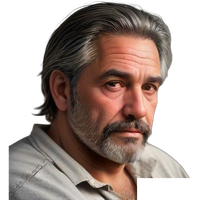
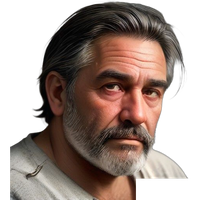
Add tolerance mechanic, shopkeeper dialogue, HUD polish, realistic portraits
- Tolerance builds day over day: the pusher's fix costs more and craving
  decays faster the longer a run goes, giving the day counter an actual
  gameplay effect instead of just being cosmetic.
- The shopkeeper is now a talkable character (name, portrait, flavor
  lines) instead of just a silent vision cone.
- Restyled the HUD with bordered panels, a framed craving meter, a
  "WANTED" badge, a framed dialogue portrait, and real item icons in
  place of the flat colored rectangles and plain text list.
- Regenerated all character portraits with descriptions grounded in
  real clinical signs of opioid, benzodiazepine, and long-term alcohol
  use, plus a new eighth portrait for the shopkeeper.
- Added a structural validator for scene files (dangling resource refs,
  missing assets, load_steps mismatches); no existing bugs found.

diff --git a/dev-tools/gen_portraits.py b/dev-tools/gen_portraits.py
@@ -26,14 +26,24 @@ from PIL import Image
 OUT = "/home/anders/dopesick-game/assets/portraits"
 os.makedirs(OUT, exist_ok=True)
 
+# Descriptions are grounded in real clinical/visible signs of long-term
+# substance use (researched via addiction-medicine sources, not guessed):
+# heroin/opioid use shows as gauntness, hollow cheeks, sunken dark-circled
+# eyes, and a sallow/grayish skin tone; benzodiazepine use shows as
+# droopy, "glazed" or unfocused eyes and a dull complexion rather than
+# gauntness; long-term heavy drinking (the dive bar's barflies) shows as
+# facial flushing and broken capillaries across the nose and cheeks.
+# Kept humanizing, not a caricature -- these are headshots of tired
+# people, not gore.
 CHARACTERS = {
-    "bartender": "a weathered middle-aged bartender with a short greying beard, rolled-up sleeves, tired but kind eyes",
-    "wiry_guy": "a thin wiry young man with a gaunt face, sunken cheeks, stubble, nervous eyes",
-    "tired_woman": "an exhausted middle-aged woman with dark circles under her eyes, messy hair, tired expression",
-    "big_eddie": "a big heavyset man with a broad face, short cropped hair, tired heavy-lidded eyes",
-    "quiet_kid": "a young quiet teenager with a hoodie, downcast eyes, pale face",
-    "old_sailor": "an old grizzled sailor with a white beard, weathered wrinkled skin, a knit cap",
-    "nervous_dave": "a nervous balding man in his 40s, sweaty forehead, wide anxious eyes",
+    "bartender": "a weathered middle-aged bartender with a short greying beard, rolled-up sleeves, tired but kind eyes, faint broken capillaries across his nose from years spent around drink",
+    "wiry_guy": "a gaunt wiry man in his late 20s, hollow sunken cheeks, deep dark circles under bloodshot eyes, sallow grayish skin, stubble, restless nervous expression",
+    "tired_woman": "an exhausted woman in her 40s, droopy heavy-lidded eyes with a glazed unfocused look, dark circles, dull sallow complexion, messy flat hair, slack tired expression",
+    "big_eddie": "a big heavyset barfly in his 50s, broad flushed face with broken capillaries across his nose and cheeks, short cropped grey hair, puffy tired eyes",
+    "quiet_kid": "a young quiet teenager in a worn hoodie, pale thin face just starting to hollow out, faint dark circles, downcast anxious eyes",
+    "old_sailor": "an old grizzled sailor in his 60s, deeply weathered wrinkled skin, a red bulbous nose with broken veins, a white beard, watery bloodshot eyes, a knit cap",
+    "nervous_dave": "a nervous balding man in his 40s, sweaty forehead, glazed heavy-lidded eyes struggling to focus, sallow complexion, wide anxious expression",
+    "shopkeeper": "a tired middle-aged convenience shop owner in a plain apron over a flannel shirt, alert watchful eyes, deep worry lines, arms crossed, wary guarded expression",
 }
 
 PROMPT_TEMPLATE = (

diff --git a/README.md b/README.md
@@ -41,9 +41,16 @@ get well. Repeat.
    cone; get spotted mid-steal and the cops show up. Break line of sight
    (shelves block vision) for a few seconds and they give up. Get caught
    and you lose everything you're carrying, plus a cash fine, and wake up
-   back home (skipping the city).
-5. **Craving meter** drains constantly. Low on the meter slows you down
-   badly (withdrawal). A green sickness tint creeps in as it drops.
+   back home (skipping the city). The shopkeeper is also now a talkable
+   character (previously just a silent vision cone with no name) — a
+   wary, watchful presence with their own portrait and lines, there to
+   make clear they're onto you, not to help you.
+5. **Craving meter** drains constantly and gets harder to manage the
+   longer you last: tolerance builds day over day, so the pusher's fix
+   costs more and withdrawal creeps in faster the further into the run
+   you are (`GameState.current_fix_cost()` / `current_craving_decay()`).
+   Low on the meter slows you down badly (withdrawal). A green sickness
+   tint creeps in as it drops.
 6. **Lighting.** Every room is dim/nighttime now, lit only by real
    `PointLight2D` fixtures (ceiling lights, the neon sign, the jukebox,
    streetlights, window glow, a TV's blue flicker) that cast proper hard
@@ -167,3 +174,33 @@ launch Godot 4.5.x and "Import" this folder (`~/dopesick-game/project.godot`).
   referenced asset file exists on disk, every `ExtResource`/`SubResource`
   id used is declared, `load_steps` counts match), but not visually.
   Reopen the project and take a look before assuming it's flawless.
+- Dialogue portraits were regenerated with descriptions grounded in a
+  round of research into the real visible signs of long-term substance
+  use, rather than the generic "tired/gaunt" guesses from the first
+  pass: opioid/heroin use shows clinically as gauntness, hollow cheeks,
+  and sunken dark-circled eyes with a sallow/grayish skin tone;
+  benzodiazepine use shows as droopy, "glazed" or unfocused eyes and a
+  dull complexion rather than gauntness; long-term heavy drinking (the
+  dive bar's barflies) shows as facial flushing and broken capillaries
+  across the nose and cheeks. Each of the seven named characters was
+  re-pointed at whichever of those a real person with their specific
+  habit would actually show, kept humanizing rather than caricatured
+  (see `dev-tools/gen_portraits.py`). The shopkeeper is a new eighth
+  portrait, deliberately the "straight" character in a cast otherwise
+  built around addiction and drink — alert and guarded rather than worn
+  down.
+- The HUD (`ui/HUD.tscn`) was the one area the last session flagged as
+  "still flat colored rectangles" — replaced with `StyleBoxFlat` panels
+  (a real bordered top bar, a framed craving meter with its own label, a
+  bordered "WANTED" badge, a bordered dialogue portrait, text shadows
+  for legibility against busy backgrounds) and a row of real item icons
+  next to "Carrying:" instead of a plain comma-separated name list,
+  reusing the same icon textures the Shop's shelves already use. No
+  script logic changed — `HUD.gd`'s node paths were kept stable so the
+  restyle couldn't silently break the signal wiring.
+- Wrote a small structural validator (checks every `.tscn` for dangling
+  `ExtResource`/`SubResource` references, missing asset files on disk,
+  and correct `load_steps` counts) and ran it across the whole project,
+  not just this session's edits, since there was no live editor to
+  catch mistakes visually. Found no existing bugs beyond what the prior
+  session had already fixed — the codebase was clean going in.
